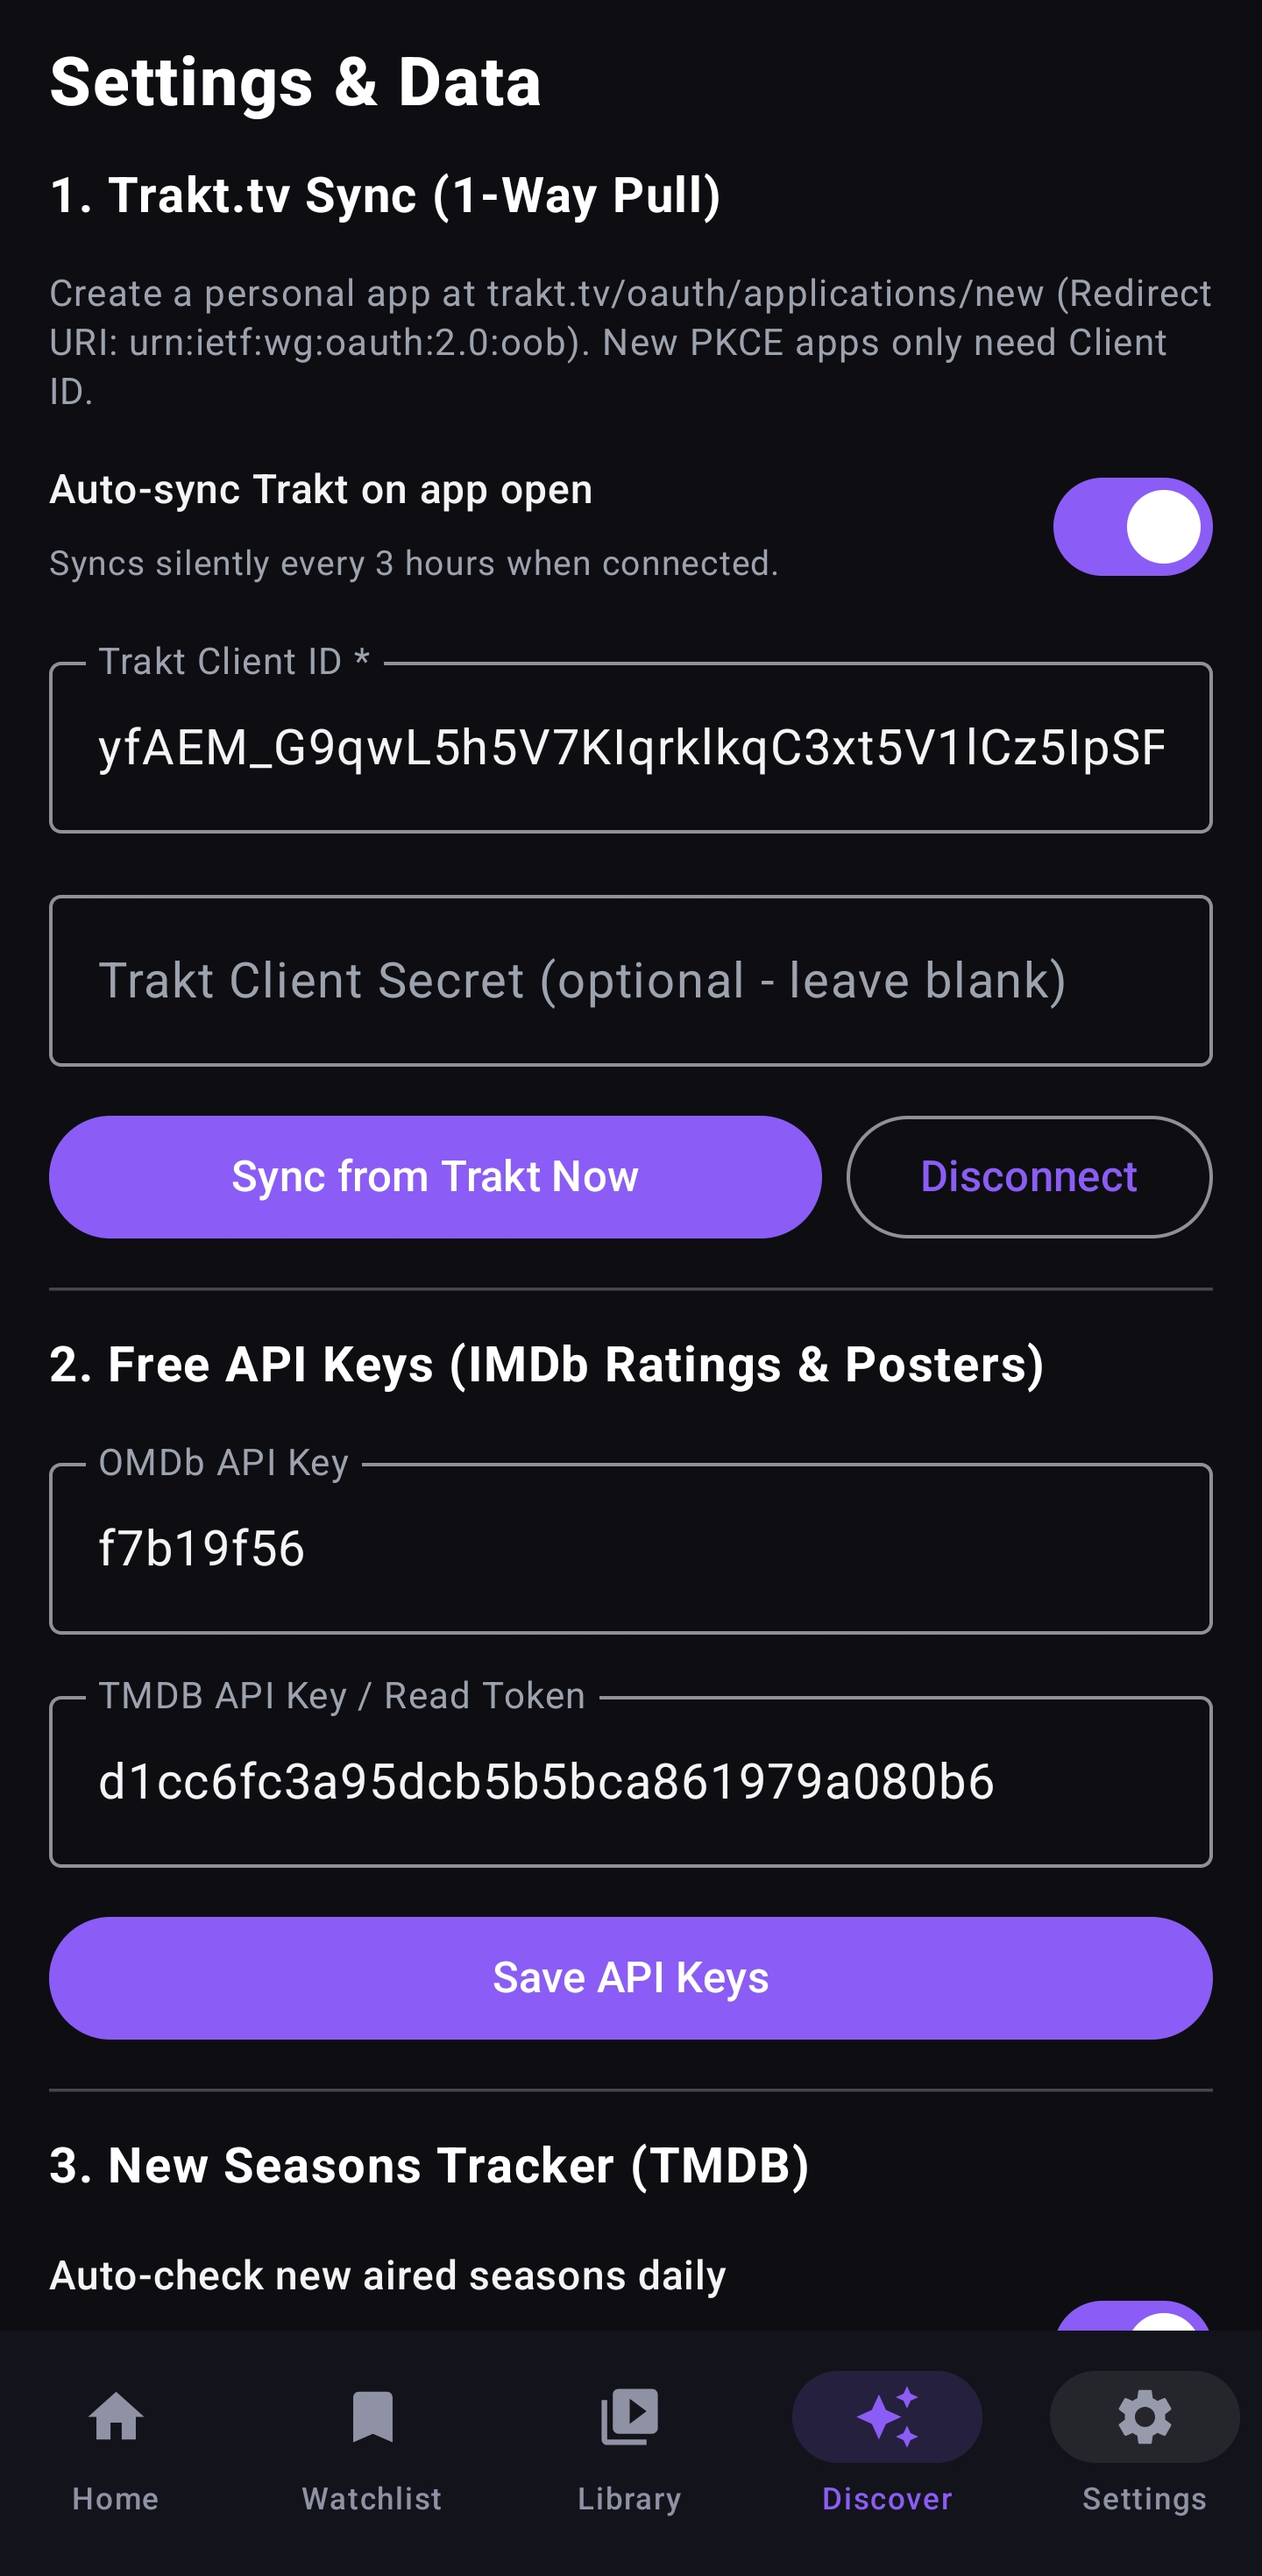
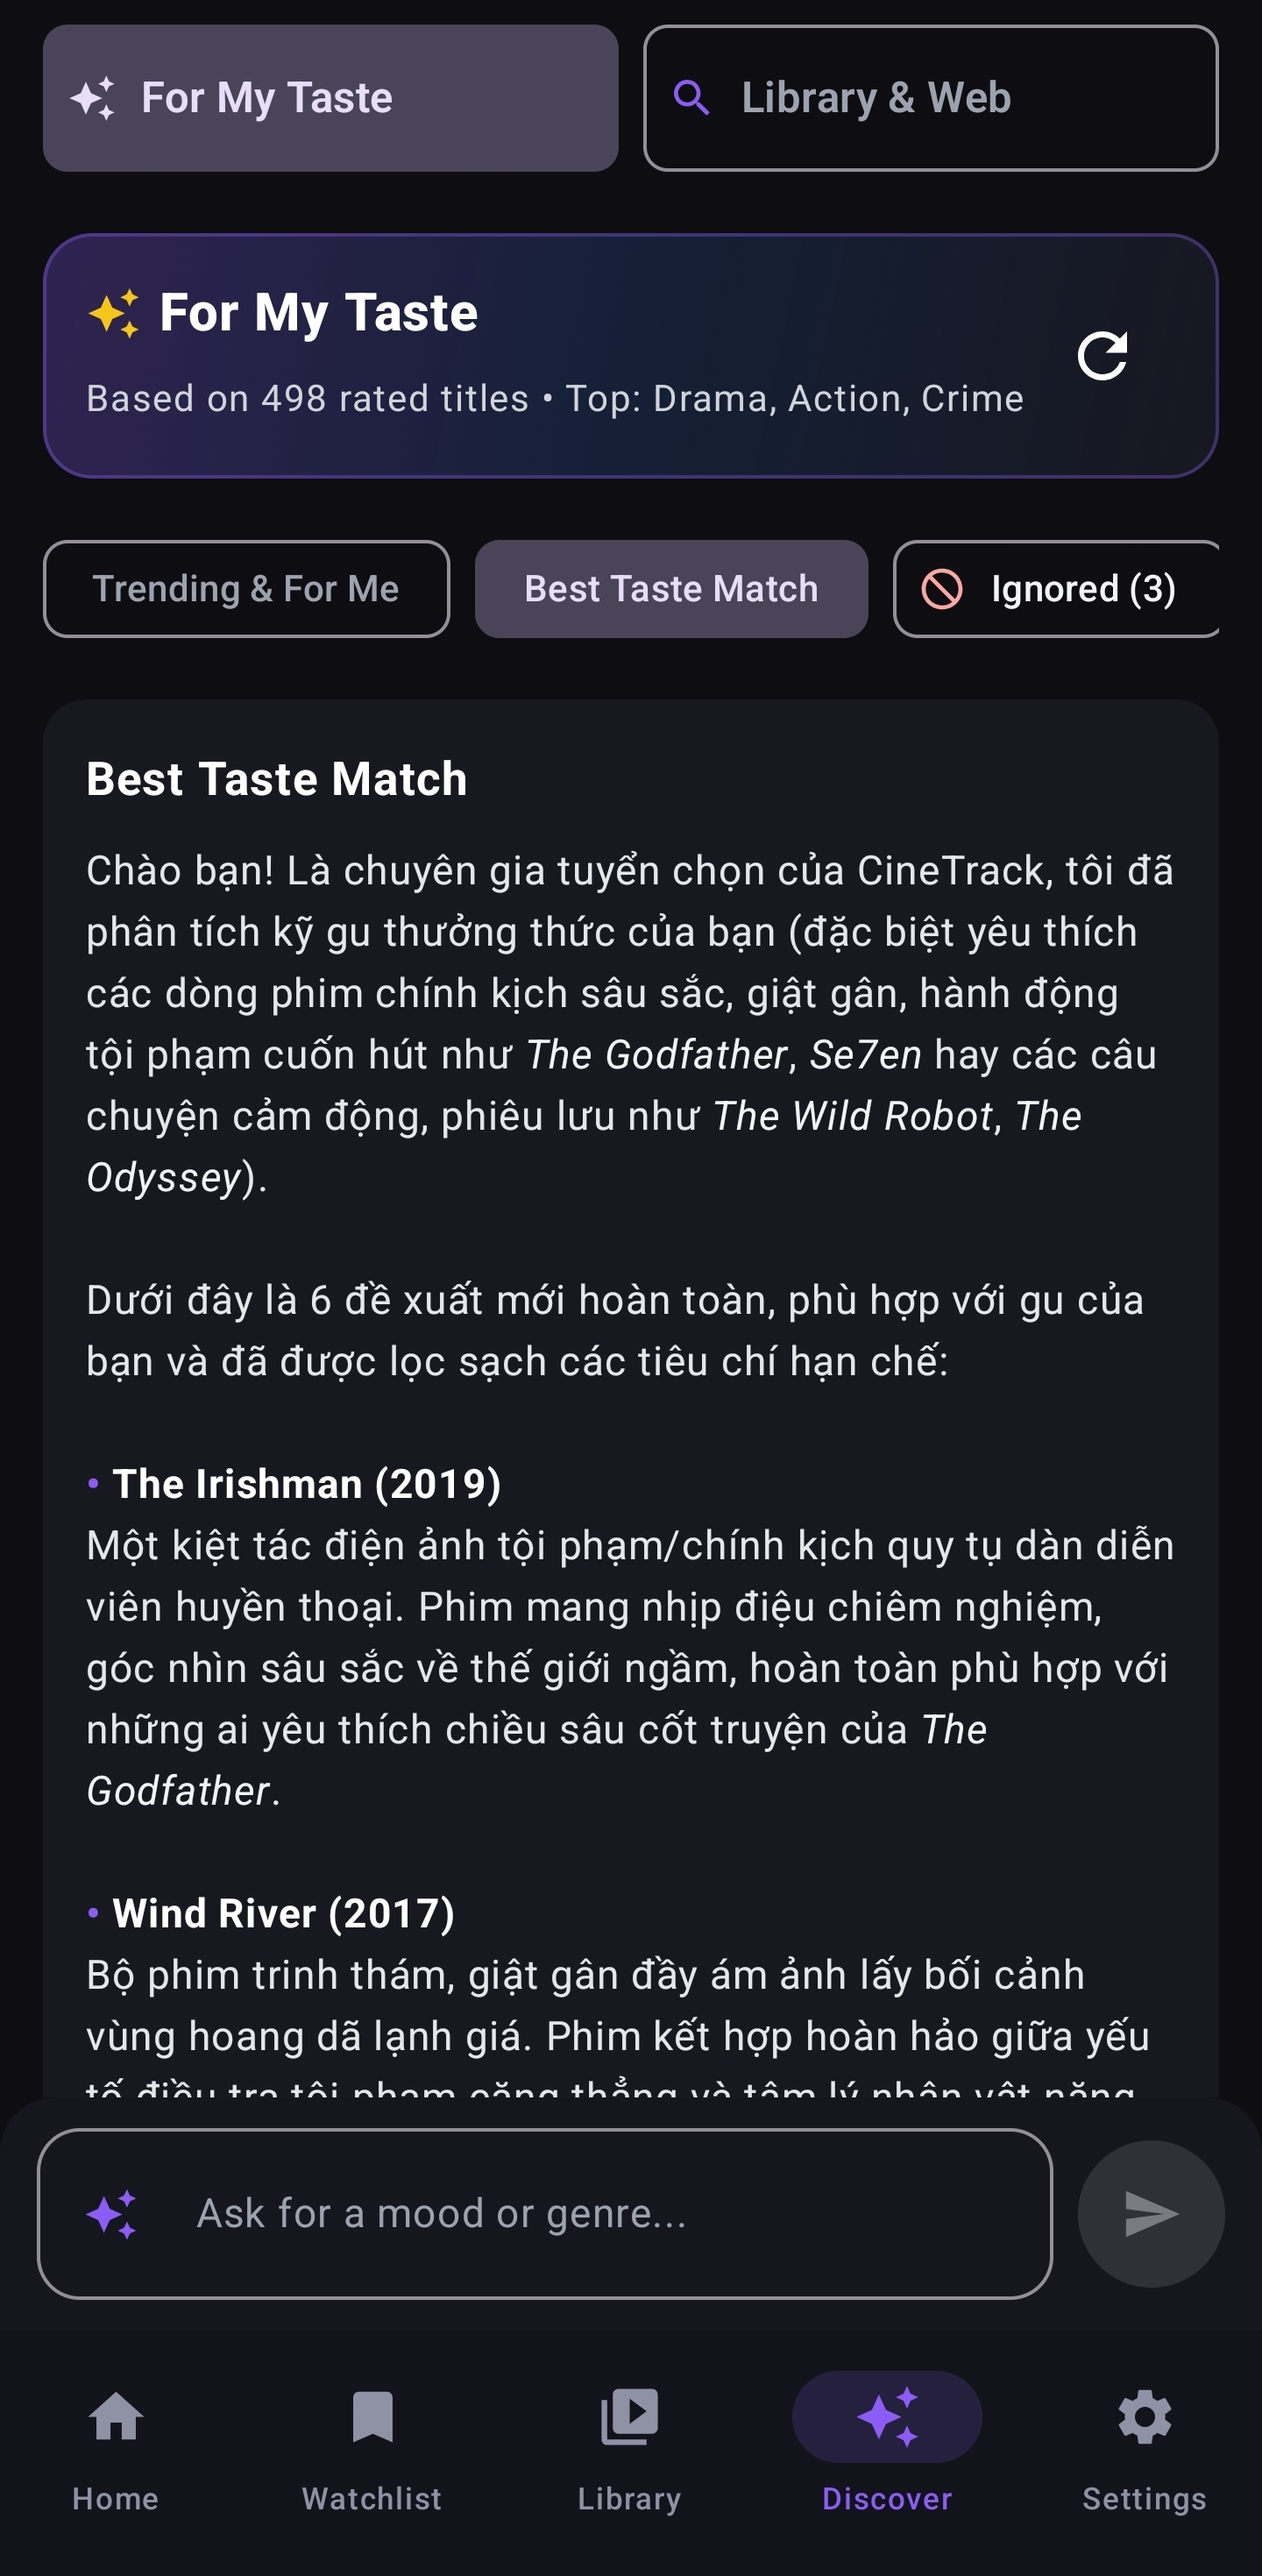
docs: update README screenshots and assets
Update project documentation with fresh UI screenshots and include new AI-powered discovery feature visuals.

Changed region(s): [[0.0312, 0.0, 0.9688, 0.9289]]

diff --git a/README.md b/README.md
@@ -14,11 +14,15 @@
 
 ## 📸 Screenshots
 
-> *Legacy MovieTracker UI preview (dark theme)*
+> *CineTrack on Android (Dark Theme)*
 
-| Home & Continue Watching | 3-Column Poster Grid (Search) | Series Season Tracker | Details (IMDb & Trakt) |
-| :---: | :---: | :---: | :---: |
-| ![Home](docs/screenshots/home.jpg) | ![Search](docs/screenshots/search.jpg) | ![Series](docs/screenshots/series.jpg) | ![Details](docs/screenshots/details.jpg) |
+| Home | For My Taste (AI) | Recommended Picks |
+| :---: | :---: | :---: |
+| ![Home](docs/screenshots/home.jpg) | ![For My Taste](docs/screenshots/discover.jpg) | ![Recommended Picks](docs/screenshots/recommended.jpg) |
+
+| Library & Web | Series Tracker | Details (IMDb & Trakt) |
+| :---: | :---: | :---: |
+| ![Library & Web](docs/screenshots/search.jpg) | ![Series Tracker](docs/screenshots/series.jpg) | ![Details](docs/screenshots/details.jpg) |
 
 ---
 
